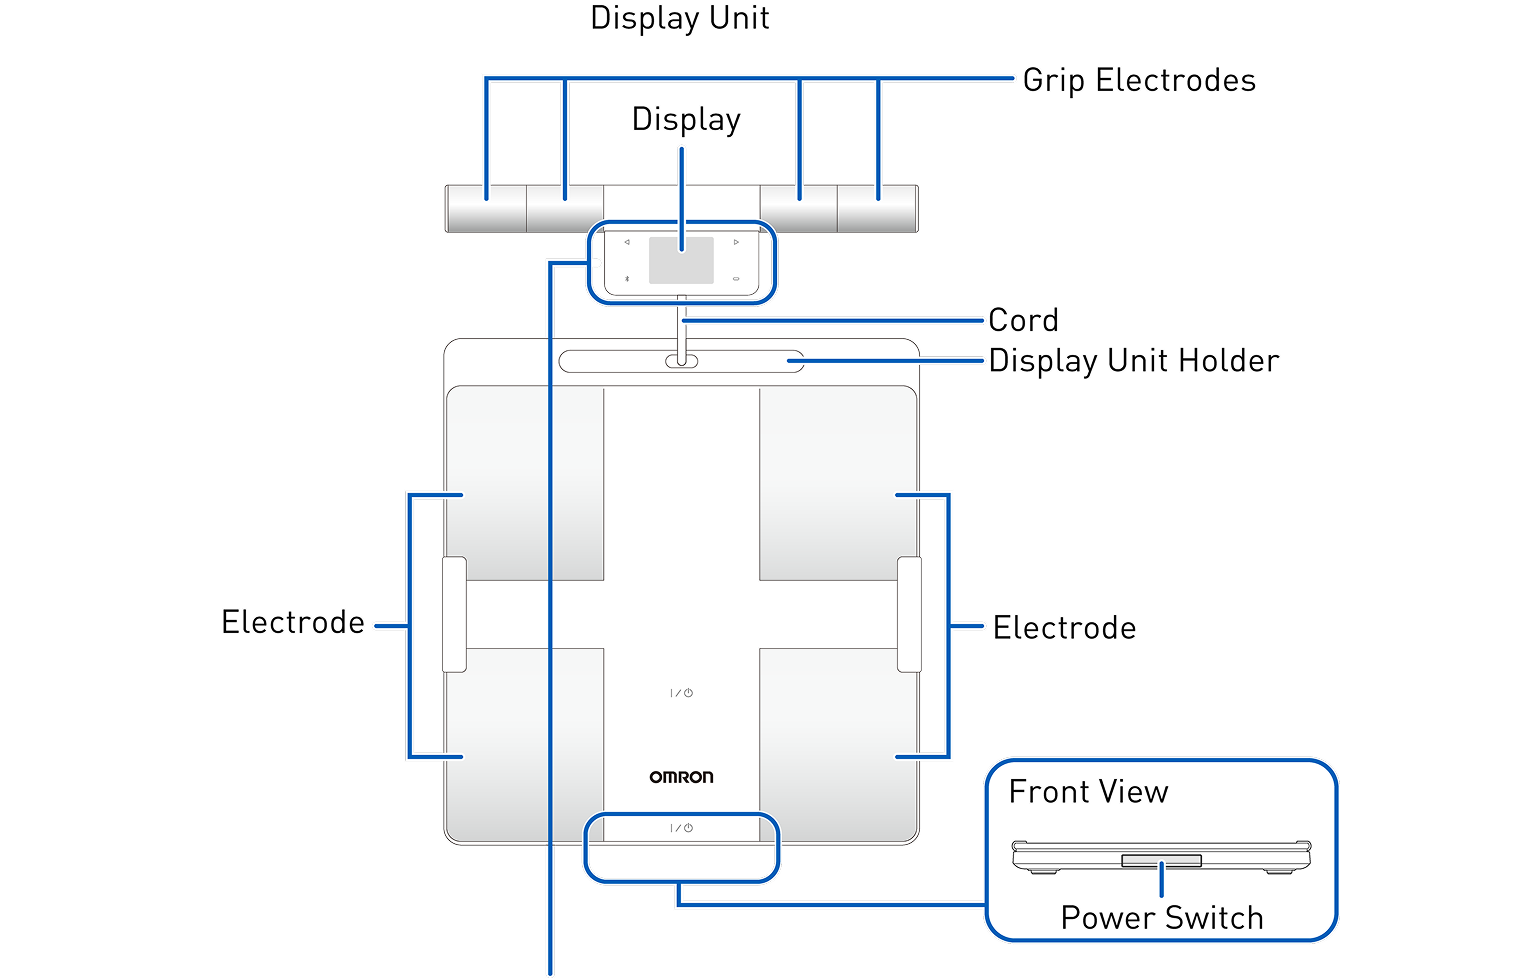
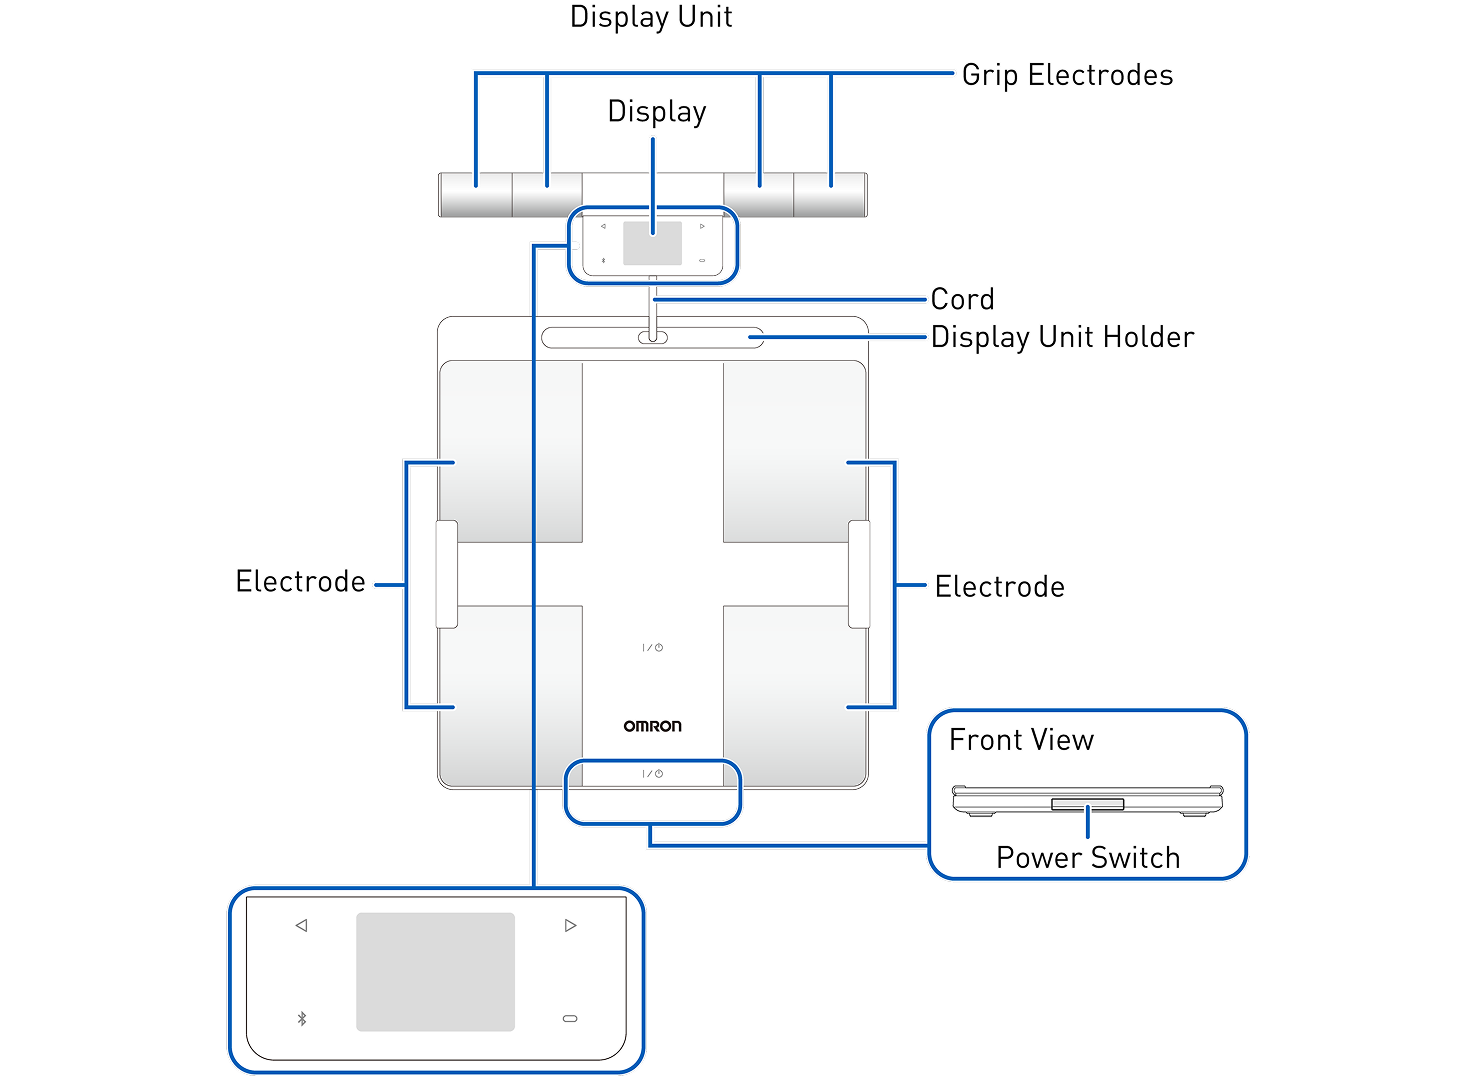
追加修正対応

Changed region(s): [[0.1247, 0.0613, 0.8726, 1.0], [0.374, 0.0, 0.4986, 0.0307]]

diff --git a/src/sass/object/project/_p-manual.scss b/src/sass/object/project/_p-manual.scss
@@ -213,10 +213,10 @@
 
 .p-manual__image--know-your-device-main-unit {
   width: 100%;
-  aspect-ratio: 577 / 489;
+  aspect-ratio: 539 / 538;
 
   @include mq(md) {
-      aspect-ratio: 769 / 489;
+      aspect-ratio: 369 / 269;
   }
 }
 
@@ -1127,4 +1127,28 @@
   margin-top: rem(20);
   padding: rem(10);
   border: 1px solid $black;
+}
+
+.p-manual__list {
+  margin-top: rem(20);
+}
+
+.p-manual__list-title {
+  font-size: rem(16);
+  font-family: var(--font-din-bold);
+  line-height: lh(30, 16);
+  position: relative;
+  padding-left: rem(10);
+}
+
+.p-manual__list-title::before {
+  content: "";
+  position: absolute;
+  left: 0;
+  top: 0.5lh;
+  transform: translateY(-50%);
+  width: rem(3);
+  aspect-ratio: 1 / 1;
+  background: $black;
+  border-radius: 50%;
 }
